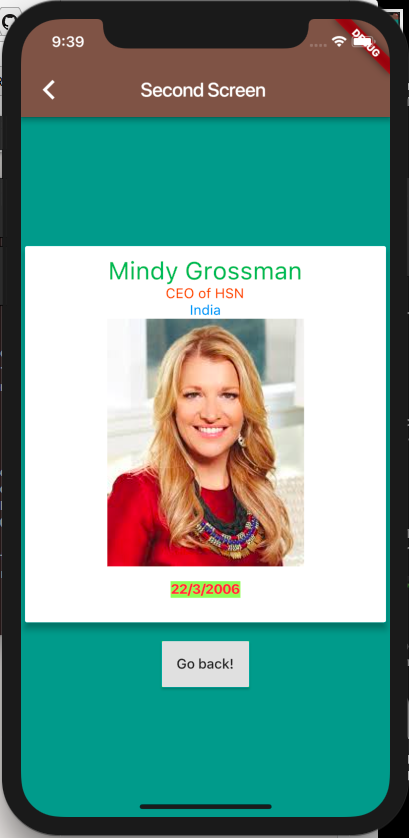
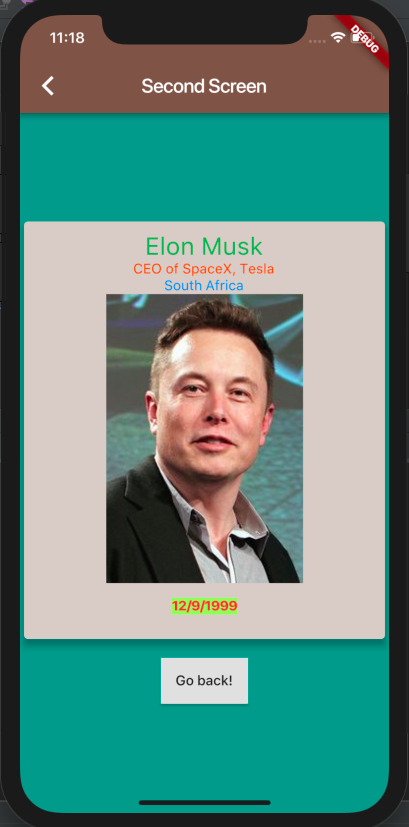
Code optimized

diff --git a/lib/main.dart b/lib/main.dart
@@ -1,4 +1,3 @@
-import 'package:english_words/english_words.dart';
 import 'package:flutter/material.dart';
 import 'package:flutter/rendering.dart';
 import 'package:flutter_app/CelebrityItem.dart';
@@ -8,34 +7,6 @@ void main() {
   debugPaintSizeEnabled =
       false; // set True to check Layout bound design debugging
   runApp(new MyApp());
-}
-
-class WordApp extends StatelessWidget {
-  @override
-  Widget build(BuildContext context) {
-    final wordPair = new WordPair.random(); // Add this line.
-    return new MaterialApp(
-        title: "Word app",
-        theme: new ThemeData(primarySwatch: Colors.deepPurple),
-        home: new Scaffold(
-          appBar: new AppBar(title: new Text('Welcome to flutter')),
-          //body: new Center(child: new Text(wordPair.asPascalCase)),
-          body: new Center(child: new RandomWords()),
-        ));
-  }
-}
-
-class RandomWords extends StatefulWidget {
-  @override
-  State<StatefulWidget> createState() => new RandomWordsState();
-}
-
-class RandomWordsState extends State<RandomWords> {
-  @override
-  Widget build(BuildContext context) {
-    final WordPair pair = new WordPair.random();
-    return new Text(pair.asPascalCase);
-  }
 }
 
 class MyApp extends StatelessWidget {

diff --git a/lib/CelebrityItem.dart b/lib/CelebrityItem.dart
@@ -11,6 +11,7 @@ class CelebrityWidget extends StatelessWidget {
   Widget build(BuildContext context) {
     debugPrint('@@@@@@' + info.name);
     return new Card(
+      color:  Theme.of(context).primaryColorLight,
         elevation: 5.0,
         child: new Column(
             mainAxisAlignment: MainAxisAlignment.center,
